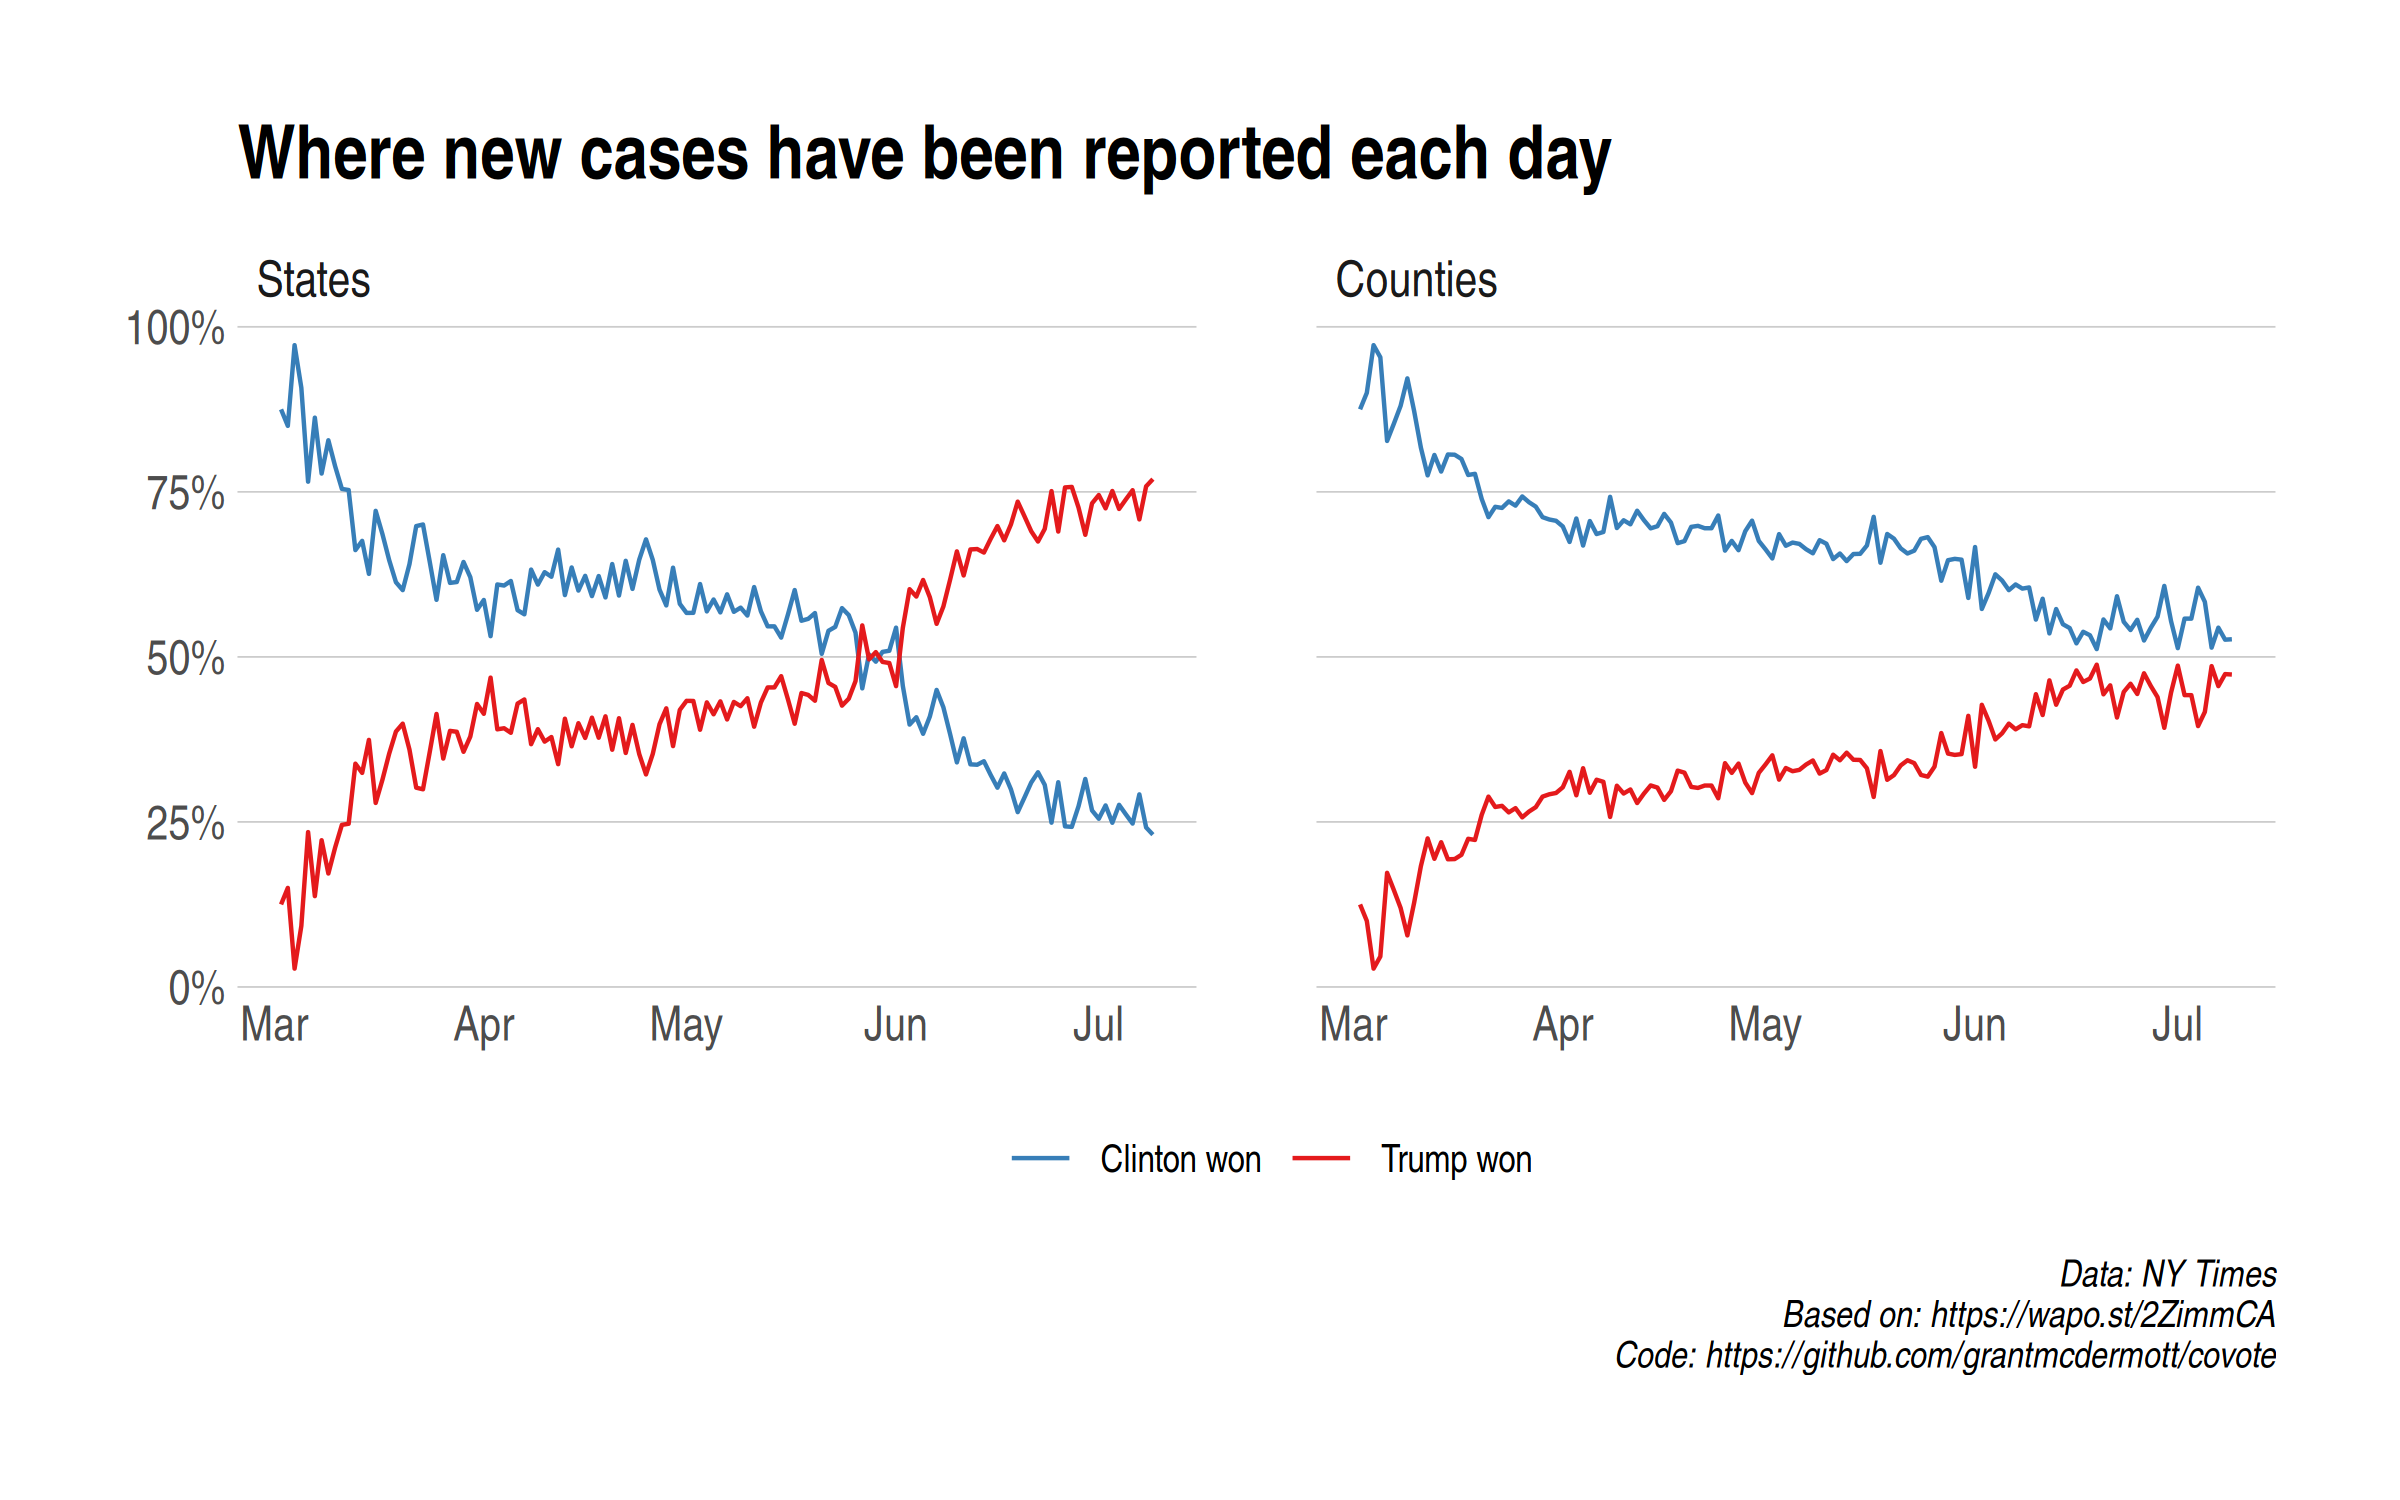
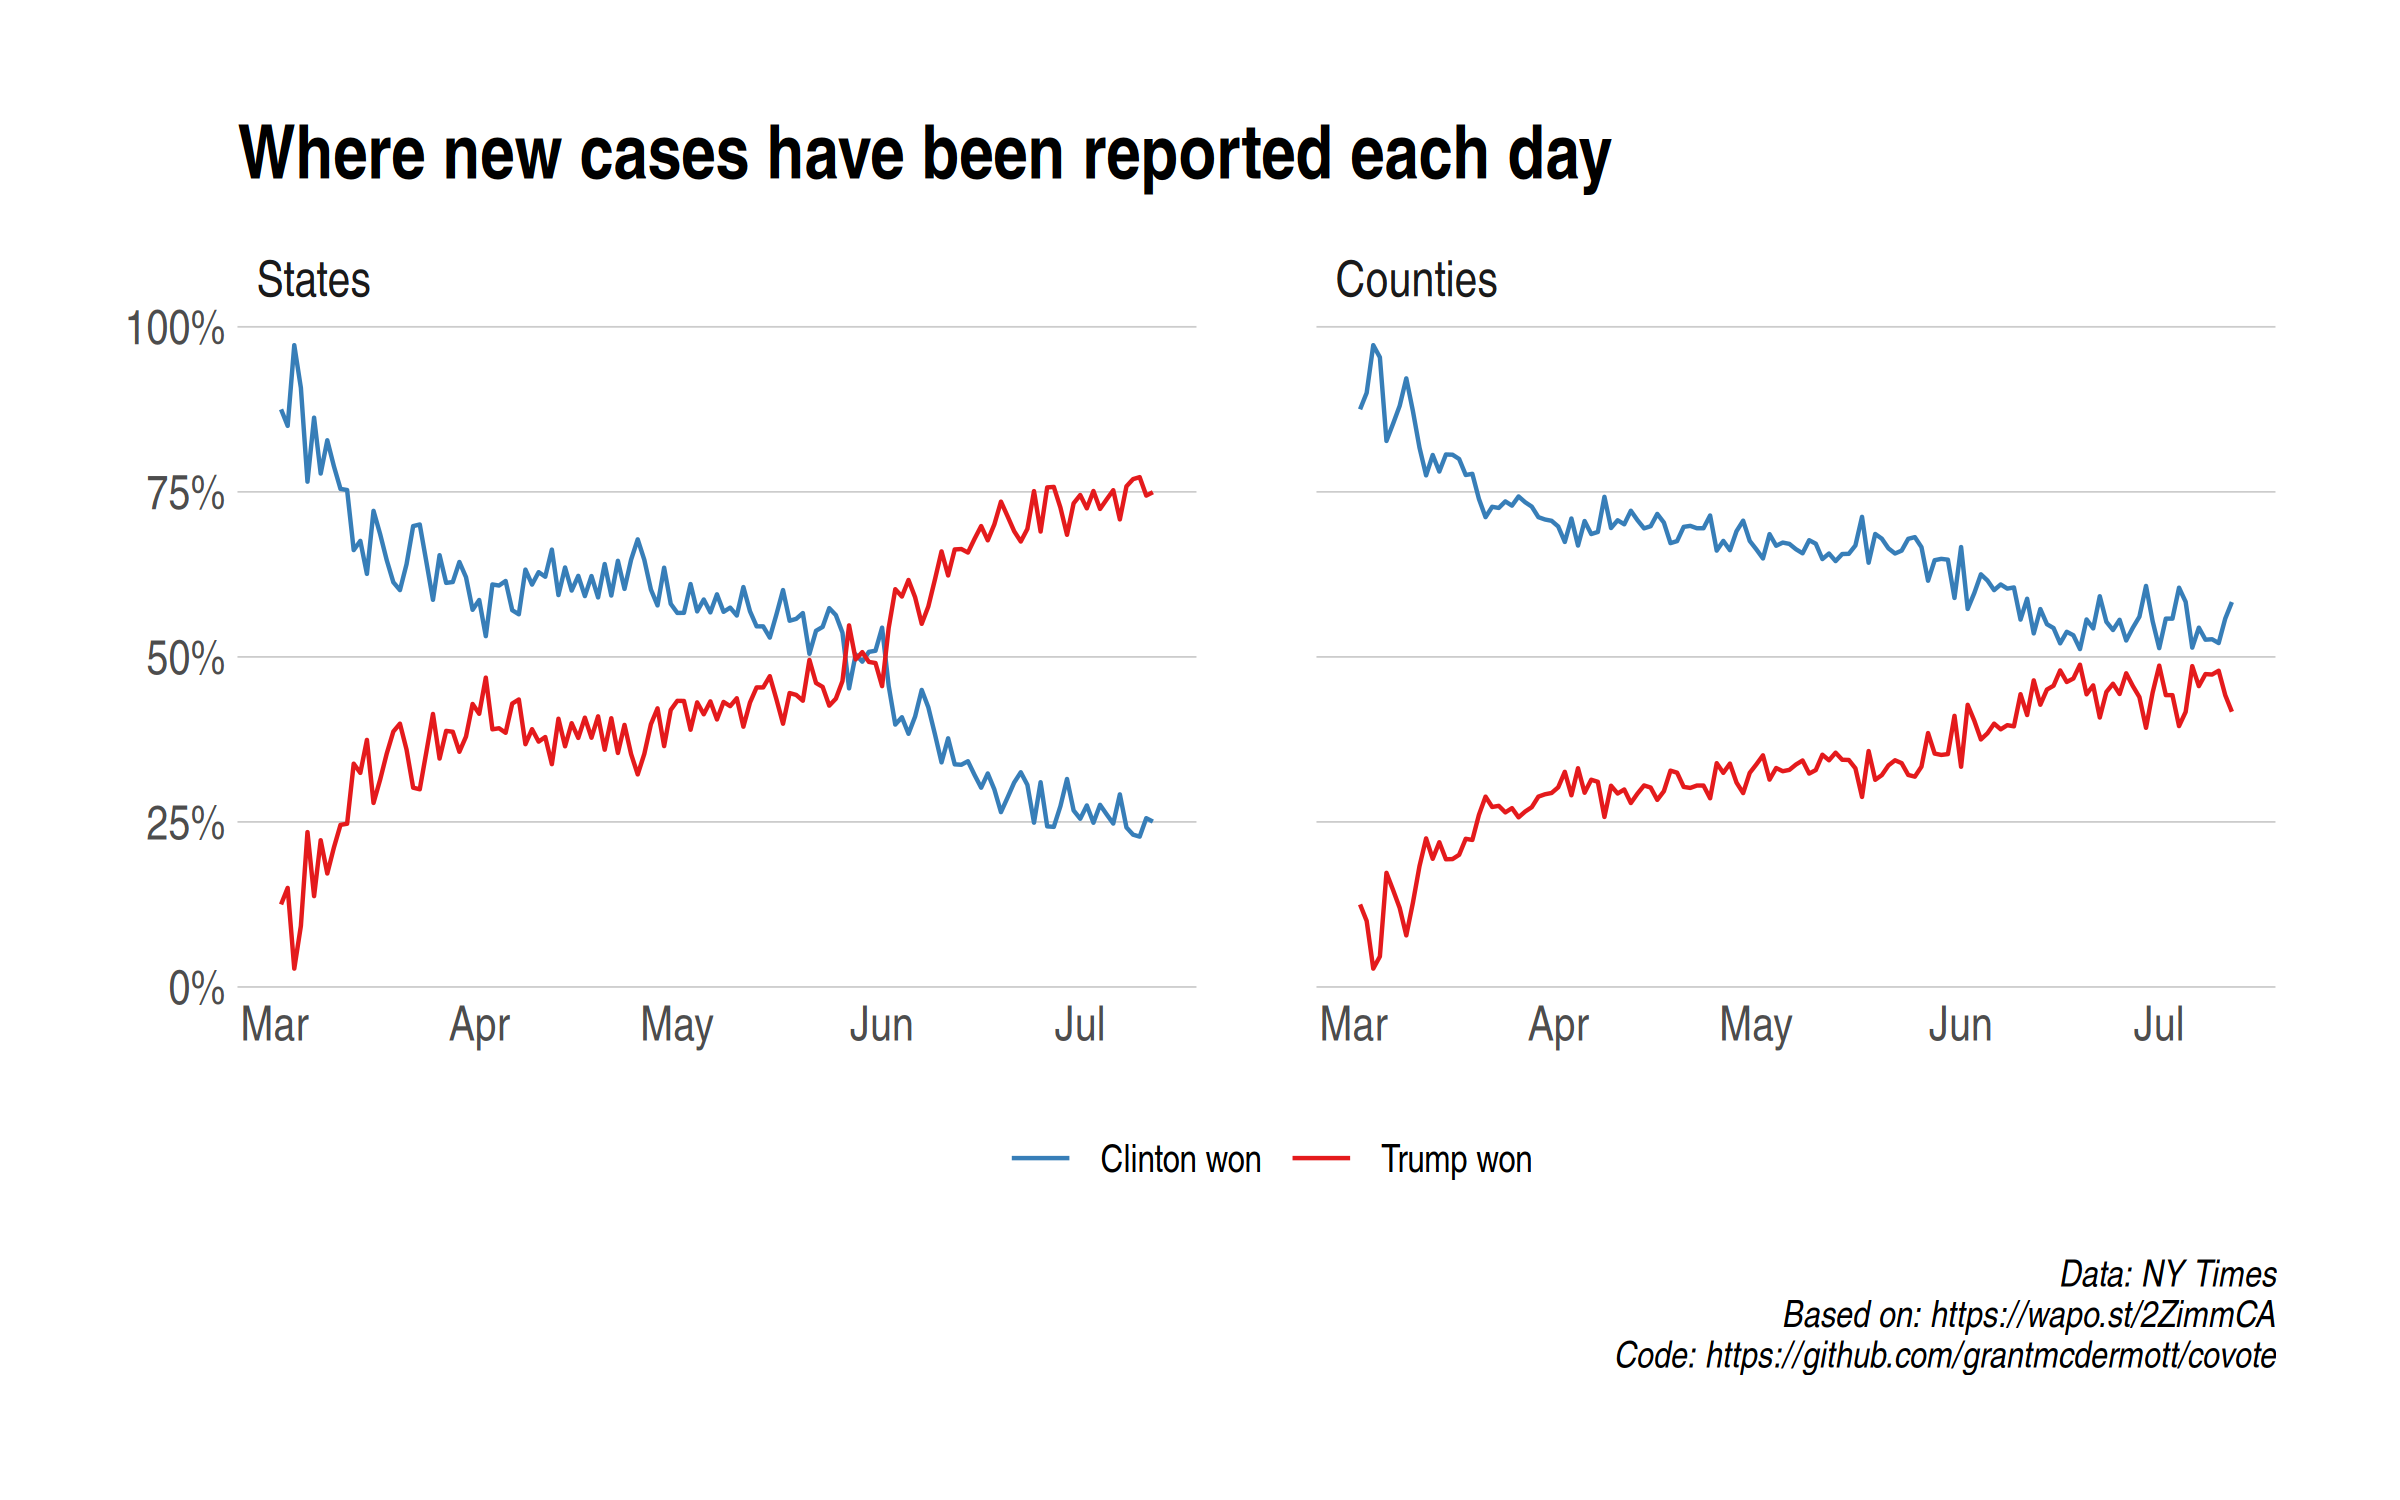
Add county by state

diff --git a/README.md b/README.md
@@ -7,15 +7,15 @@
 
 <!-- badges: end -->
 
-The *Washington Post* published an article by Philip Bump on June 17,
-titled [“Coronavirus has come to Trump
+The *Washington Post* published an article on June 17, 2020, titled
+[“Coronavirus has come to Trump
 country”](https://www.washingtonpost.com/politics/2020/06/17/coronavirus-has-come-trump-country/).
 The article included a striking figure showing daily COVID-19 cases over
 time, aggregated by 2016 election results (i.e. whether a county or
 state voted for Donald Trump or Hillary Clinton).
 
 The short script below provides R code for reproducing this figure with
-up-to-date data. The script was run on **2020-07-10**, but it will
+up-to-date data. The script was run on **2020-07-13**, but it will
 automatically pull in the most recent data whenever you run it.
 
 ``` r
@@ -106,6 +106,60 @@ ggplot(us[date>'2020-03-01'], aes(date, daily_deaths_perc, col = result)) +
 ```
 
 ![](README_files/figure-gfm/covote-2.png)<!-- -->
+
+### Bonus: County by state results
+
+Here’s a variation that wasn’t in the original WaPo article, but might
+be of interested.
+
+``` r
+## New county by state data table
+uscs =
+  nytc[us2016_counties[us2016_states, on='state_abbr'], on = 'fips', allow.cartesian = TRUE] %>%
+    .[!is.na(date),
+      lapply(.SD, sum, na.rm = TRUE), .SDcols = c('cases', 'deaths'),
+      by = .(date, result_state, result_county)]
+
+## Get daily counts and percentages
+setorder(uscs, result_state, result_county, date)
+uscs[ , ':=' (daily_cases = cases - shift(cases, 1, 'lag'),
+              daily_deaths = deaths - shift(deaths, 1, 'lag')),
+      by = .(result_state, result_county)] %>%
+  .[, ':=' (daily_cases_perc = daily_cases/sum(daily_cases),
+            daily_deaths_perc = daily_deaths/sum(daily_deaths)),
+    by = .(result_state, date)]
+
+## Some labeling sugar 
+uscs$result_state = factor(paste('States that', uscs$result_state))
+uscs$result_county = factor(paste('Counties that', uscs$result_county))
+
+## Cases
+ggplot(uscs[date>'2020-03-01'], aes(date, daily_cases_perc, col = result_county)) +
+  geom_line() +
+  scale_color_brewer(palette = 'Set1', direction = -1) +
+  scale_y_percent(limits = c(0,1)) +
+  labs(title = 'Where new cases have been reported each day',
+       subtitle = 'County by state results',
+       caption = 'Data: NY Times\nCode: https://github.com/grantmcdermott/covote') +
+  facet_wrap(~ result_state)
+```
+
+![](README_files/figure-gfm/county_state-1.png)<!-- -->
+
+``` r
+
+## Deaths
+ggplot(uscs[date>'2020-03-01'], aes(date, daily_deaths_perc, col = result_county)) +
+  geom_line() +
+  scale_color_brewer(palette = 'Set1', direction = -1) +
+  scale_y_percent(limits = c(0,1)) +
+  labs(title = 'Where new deaths have been reported each day',
+       subtitle = 'County by state results',
+       caption = 'Data: NY Times\nCode: https://github.com/grantmcdermott/covote') +
+  facet_wrap(~ result_state)
+```
+
+![](README_files/figure-gfm/county_state-2.png)<!-- -->
 
 ## Acknowledgements
 
